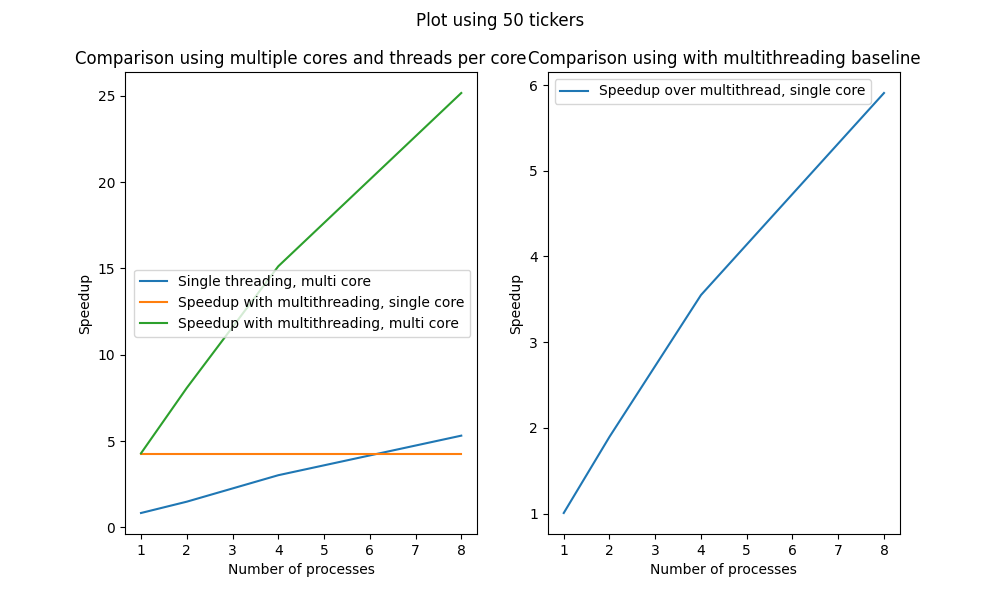
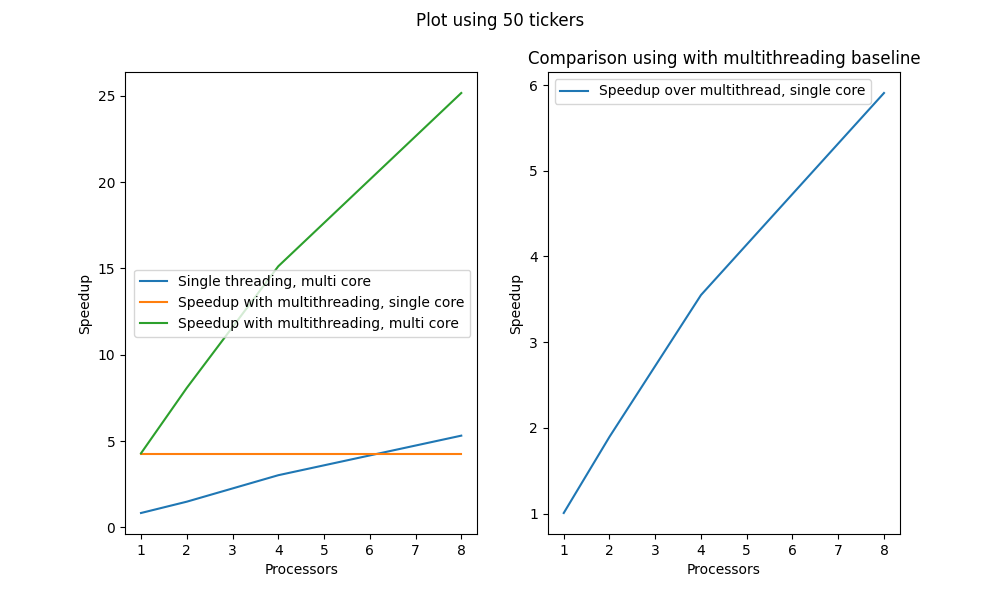
Updating performance testing plots for inclusion in writeup

Changed region(s): [[0.062, 0.09, 0.527, 0.12], [0.651, 0.93, 0.806, 0.96], [0.217, 0.93, 0.372, 0.96]]

diff --git a/stock_predict/performance_testing/data_proc/plot_speedup_processing.py b/stock_predict/performance_testing/data_proc/plot_speedup_processing.py
@@ -16,6 +16,54 @@ def get_times(filename):
     
     return sequential_times, parallel_times
 
+
+def plot_speedup_singlethread():
+    """Plots speedup for a single thread, 
+    using multiple processors. Highlights theoretical performance"""
+    # Read in .txt using helper method outlined above
+    sequential_times, parallel_times = get_times('initial_performance_testing.txt')
+    fig, axs = plt.subplots(1, 1, figsize=(6,4))
+    speedup_init = [float(sequential_times[0])/float(p) for p in parallel_times[0]]
+    speedup_par_thread = [float(sequential_times[0])/float(sequential_times[1]) for p in parallel_times[0]]
+    speedup_par_all = [float(sequential_times[0])/float(p) for p in parallel_times[1]]
+    speedup_par_threadbase = [float(sequential_times[1])/float(p) for p in parallel_times[1]]
+
+    # Note: Just plot multicore vs multithread + multicore
+    cores = [1,2,4,8]
+    axs.plot(cores, speedup_init, label=f'Single threading')
+    axs.set_xlabel('Number of processes')
+    axs.set_ylabel('Speedup')
+    axs.legend()
+    plt.suptitle(f'Speedup for multiple processes, single thread per process (50 tickers)')
+    plt.legend()
+    
+    plt.savefig('./speedup_multithreading.png')
+    plt.show()
+
+
+def plot_relative_multithread_gain():
+    """Plots the relative gains of using multithreaded approach, holding constant
+    the number of processors.
+
+    Shows the relative efficiency of multithreading and efficiency"""
+    sequential_times, parallel_times = get_times('initial_performance_testing.txt')
+    fig, axs = plt.subplots(1, 1, figsize=(6,4))
+    speedup_init = [float(sequential_times[0])/float(p) for p in parallel_times[0]]
+    speedup_par_thread = [float(sequential_times[0])/float(sequential_times[1]) for p in parallel_times[0]]
+    speedup_par_all = [float(sequential_times[0])/float(p) for p in parallel_times[1]]
+    speedup_par_threadbase = [float(sequential_times[1])/float(p) for p in parallel_times[1]]   
+
+    # Calculate efficiency
+    cores = [1,2,4,8]
+    rel_speedup = [float(x)/float(y) for x, y in zip(parallel_times[0], parallel_times[1])]
+    plt.plot(cores, rel_speedup, label=f'Speedup')
+    plt.xlabel('# of Processes')
+    plt.ylabel('Relative Speedup')
+    plt.title('Relative speedup of multithreaded approach, by number of processes (50 tickers)')
+    plt.ylim(0, 8)
+
+    plt.show()
+
 def plot_speedup_all():
     """Plots speedup; assumes sequential updated version
     will be same across cores"""
@@ -31,13 +79,12 @@ def plot_speedup_all():
     axs[0].plot(cores, speedup_init, label=f'Single threading, multi core')
     axs[0].plot(cores, speedup_par_thread, label=f'Speedup with multithreading, single core')
     axs[0].plot(cores, speedup_par_all, label=f'Speedup with multithreading, multi core')
-    axs[0].set_xlabel('Number of processes')
+    axs[0].set_xlabel('Processors')
     axs[0].set_ylabel('Speedup')
-    axs[0].set_title('Comparison using multiple cores and threads per core')
     axs[0].legend()
 
     axs[1].plot(cores, speedup_par_threadbase, label=f'Speedup over multithread, single core')
-    axs[1].set_xlabel('Number of processes')
+    axs[1].set_xlabel('Processors')
     axs[1].set_ylabel('Speedup')
     axs[1].set_title('Comparison using with multithreading baseline')
     plt.suptitle(f'Plot using 50 tickers')
@@ -49,7 +96,7 @@ def plot_speedup_all():
 def plot_speedup_multithread():
     """Only plots multithreading speedup"""
     sequential_times, parallel_times = get_times('strong_scaling.txt')
-    fig, axs = plt.subplots(1, 1, figsize=(10,6))
+    fig, axs = plt.subplots(1, 1, figsize=(6,4))
     sequential_times = re.findall('[0-9\.]*', sequential_times[0])[0]
     speedups = [float(sequential_times)/float(p) for p in parallel_times[0]]
     cores = [1,2,4,8]
@@ -57,16 +104,35 @@ def plot_speedup_multithread():
     plt.plot(cores, cores, ls='--', c='k', label=f'Predicted Speedup')
     plt.xlabel('Processors')
     plt.ylabel('Speedup')
-    plt.title('Speedup with multiple processes, all 500 tickers')
+    plt.title('Speedup with multiple processes (500 tickers)')
+    plt.legend()
     plt.savefig('./full_multithread_perf.png')
-    print(speedups)
     plt.show()
 
 
+def plot_speedup_total():
+    """Plots the total speedup vs. a naive process"""
+    sequential_times, parallel_times = get_times('initial_performance_testing.txt')
+    fig, axs = plt.subplots(1, 1, figsize=(6,4))
+    speedup_par_all = [float(sequential_times[0])/float(p) for p in parallel_times[1]]
+
+    cores = [1,2,4,8]
+    axs.plot(cores, speedup_par_all, label=f'Total Speedup')
+    axs.set_ylabel('Speedup')
+    axs.set_xlabel('Processors')
+    axs.set_title('Speedup over naive baseline')
+
+    plt.legend()
+    plt.savefig('./speedup_all.png')
+    plt.show() 
+
 
 if __name__ == '__main__':
-    #plot_speedup_all()
+    plot_speedup_singlethread()
+    plot_speedup_all()
     plot_speedup_multithread()
+    plot_relative_multithread_gain()
+    plot_speedup_total()
     
 
 
